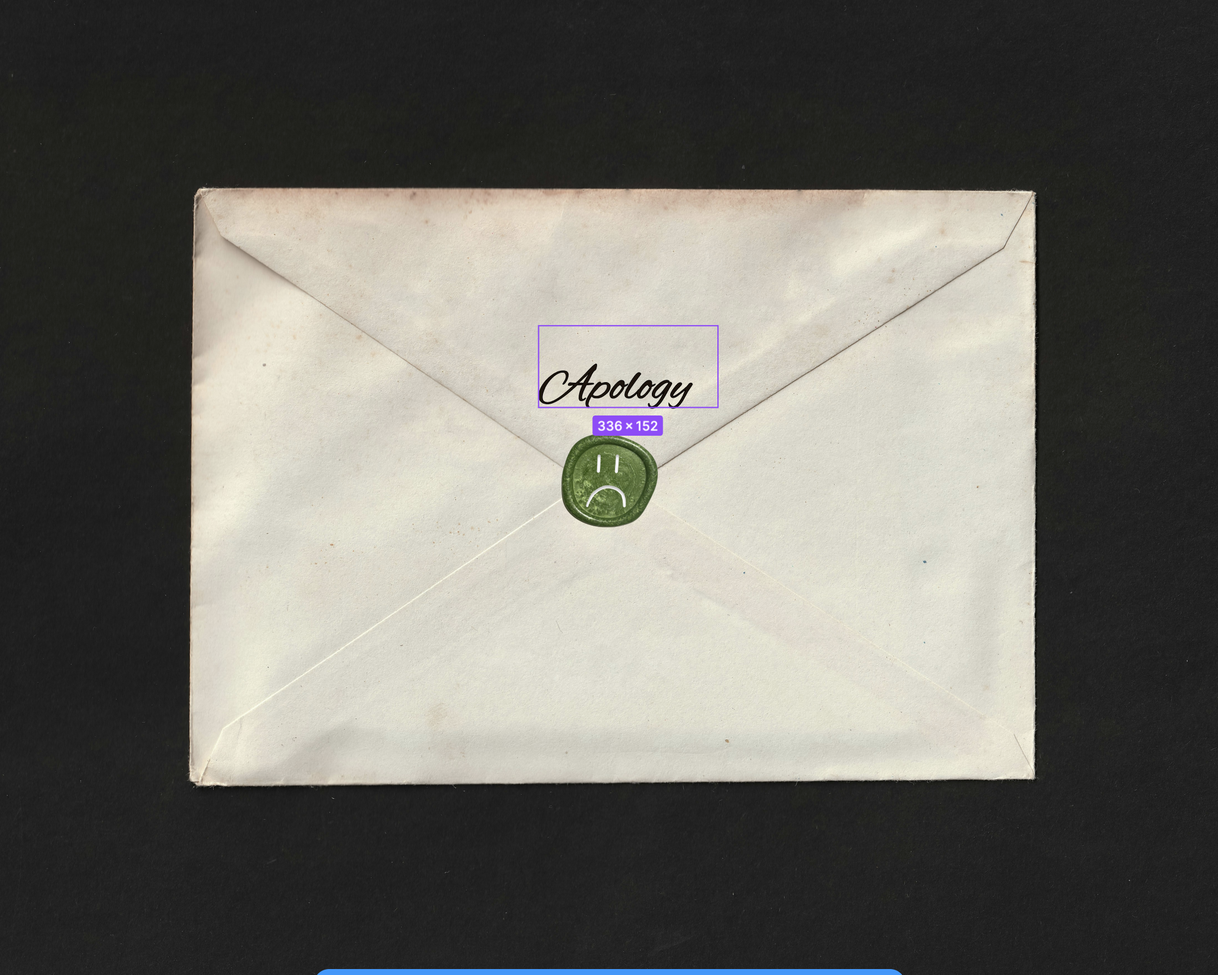
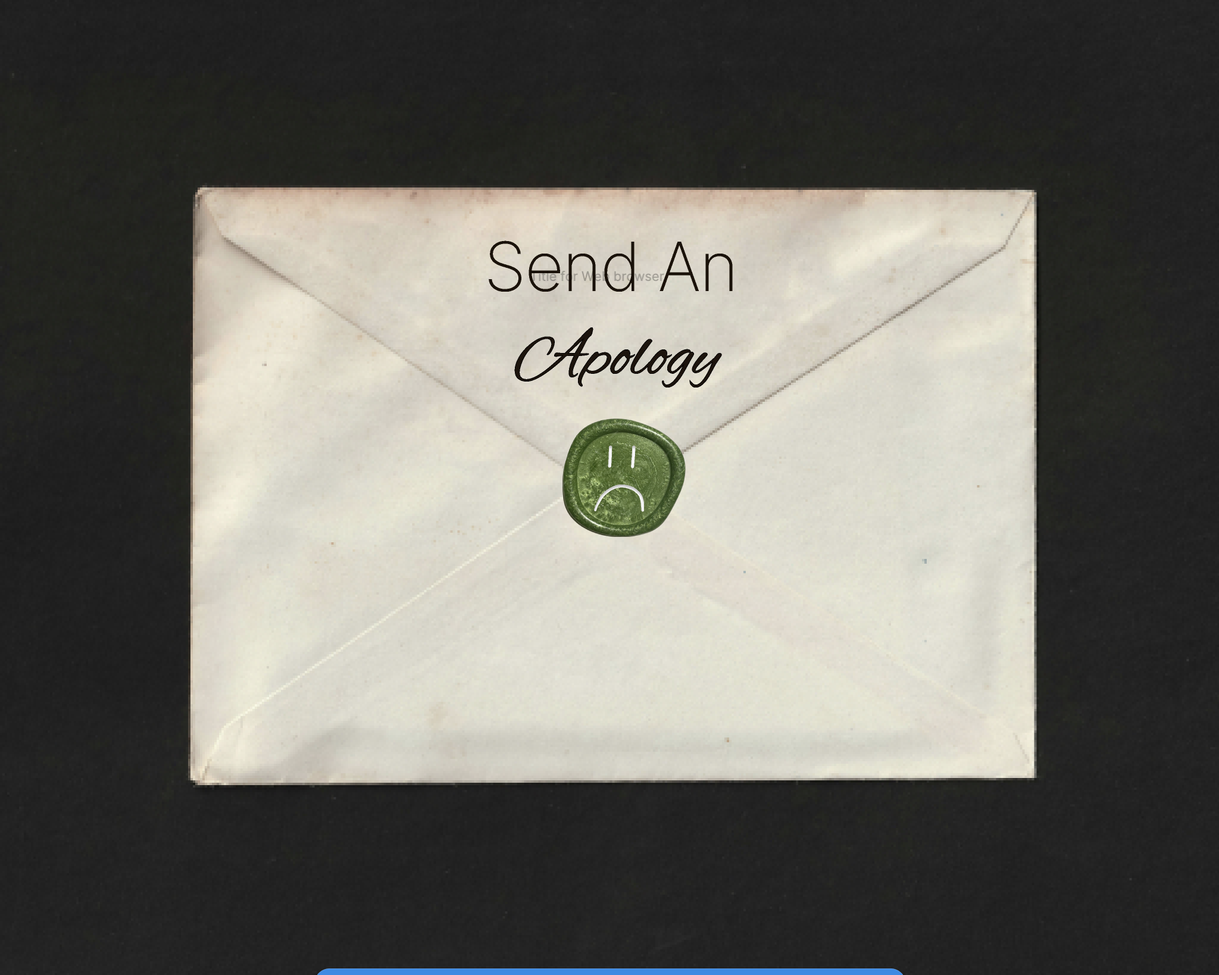
Restore Send An on the desktop landing title

diff --git a/src/app/globals.css b/src/app/globals.css
@@ -1186,14 +1186,27 @@ body {
     height: 1819px;
   }
 
-  /* Text/Title 86:432 — script word only, on the flap */
+  /* Text/Title 86:432 — both lines, re-set for the wide frame. The desktop
+     title is its own type, not the phone block scaled: there the script word is
+     far larger than the sans one, here the two are nearly the same size. */
   .ps-figma-title {
-    left: 1004px;
-    top: 607px;
+    left: 902px;
+    top: 420px;
+    width: 520px;
+    height: 340px;
   }
 
   .ps-figma-title__send {
-    display: none;
+    inset: 0 auto auto 0;
+    white-space: nowrap;
+    font-size: 125px;
+    letter-spacing: -2.5px;
+  }
+
+  .ps-figma-title__apology {
+    inset: 170px auto auto 58px;
+    font-size: 127px;
+    letter-spacing: 1.27px;
   }
 
   /* Button/Create — centered on the flap seam at (1138, 894) */

diff --git a/docs/FIGMA-HANDOFF.md b/docs/FIGMA-HANDOFF.md
@@ -105,7 +105,7 @@ other routes reuse their 402 × 874 composition, scaled up (see below).
 |---|---|---|
 | Backdrop | `#1f1f1f` | `--envelope-backdrop`; matches the photo’s own dark surface, so letterboxing is invisible |
 | Envelope | `envelope-close.png` | Fills the frame (asset is 4096 × 3277, same 1.25 aspect — no crop) |
-| Title | `Text/Title` `86:432` — 336 × 152 at **(1004, 607)** | Script **“Apology” only**; “Send An” is hidden on desktop |
+| Title | `Text/Title` `86:432` — both lines on the flap | Re-set for the wide frame, **not** the phone block scaled: “Send An” 125px Inter Light, “Apology” 127px Alex Brush — nearly equal here, 58/95 on the phone. Ink lands at (911, 449)–(1364, 543) and (960, 610)–(1345, 721) |
 | CTA | `Button/Create` — 189 × 186, centred at **(1138, 894)** | Sits on the flap seam, below the title |
 
 Frame is scaled to *fit* (`min()`), not cover, so the whole envelope stays visible.
